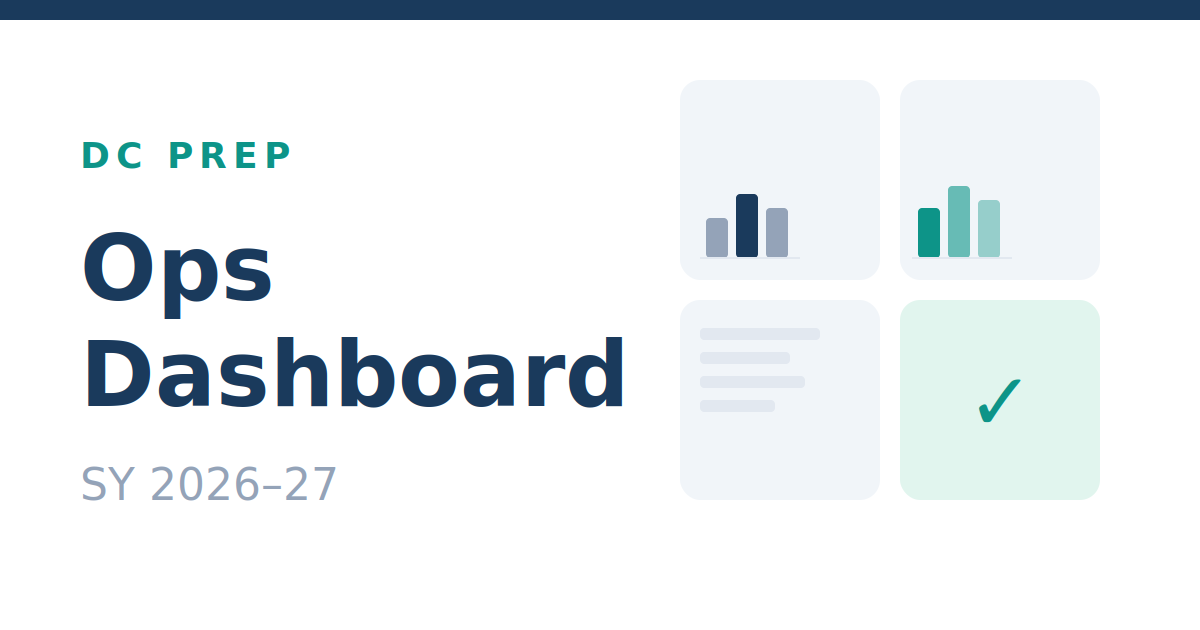
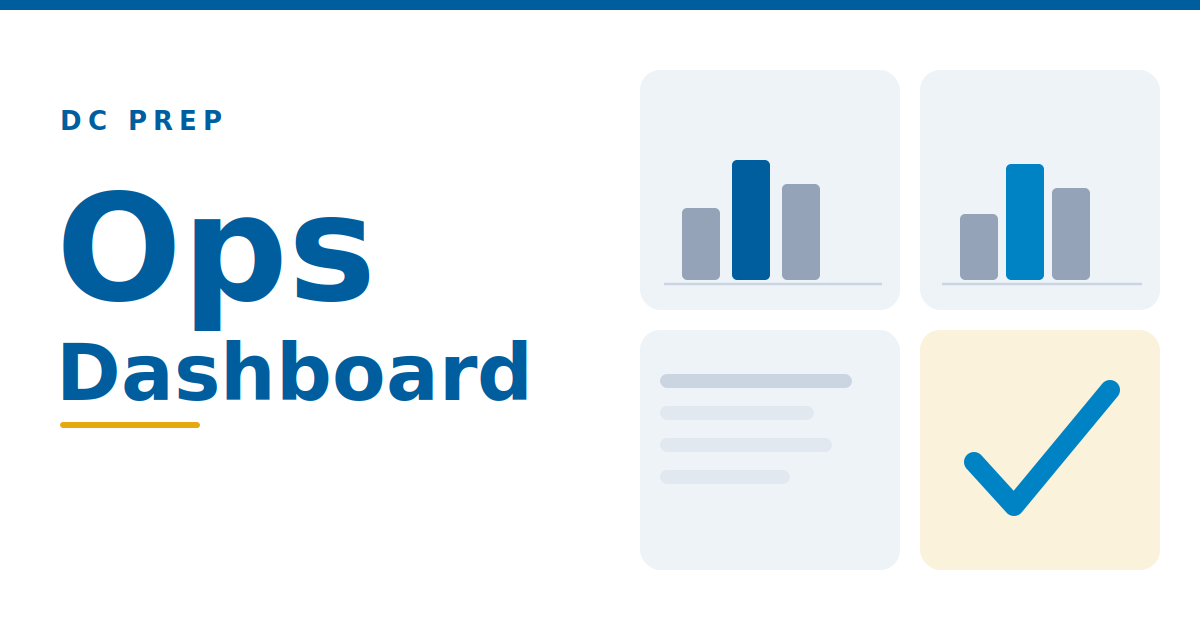
Add files via upload

diff --git a/index.html b/index.html
@@ -16,7 +16,7 @@
 <script src="https://cdnjs.cloudflare.com/ajax/libs/Chart.js/4.4.1/chart.umd.js"></script>
 <style>
 :root {
-  --navy:#1a3a5c;--teal:#0d9488;--teal-lt:#e1f5ee;
+  --navy:#005E9E;--teal:#0083C4;--teal-lt:#E6F3FA;
   --amber:#f59e0b;--red:#dc2626;--red-lt:#fef2f2;
   --muted:#94a3b8;--border:rgba(0,0,0,.09);--card:#fff;
   --bg:#f8fafc;--lt:#f1f5f9;--text:#1e293b;
@@ -25,27 +25,29 @@
 body{font-family:-apple-system,BlinkMacSystemFont,'Segoe UI',system-ui,sans-serif;background:var(--bg);color:var(--text);min-height:100vh}
 
 /* ── HEADER ── */
-.hdr{background:var(--navy);padding:20px 24px 18px;position:sticky;top:0;z-index:100}
+.hdr{background:var(--navy);position:sticky;top:0;z-index:100}
+.hdr-gold-bar{height:5px;background:#E5A810}
+.hdr-inner{padding:16px 24px 16px}
 .hdr-top{display:flex;align-items:center;justify-content:space-between}
 .hdr-brand{font-size:10px;letter-spacing:1.6px;text-transform:uppercase;color:rgba(255,255,255,.4);margin-bottom:3px}
 .hdr-title{font-size:20px;font-weight:700;color:#fff}
 .hdr-meta{font-size:11px;color:rgba(255,255,255,.4);margin-top:3px}
 .back-btn{font-size:13px;color:rgba(255,255,255,.7);background:rgba(255,255,255,.12);border:1px solid rgba(255,255,255,.2);border-radius:8px;padding:6px 12px;cursor:pointer;display:none}
 .back-btn.visible{display:inline-flex;align-items:center;gap:5px}
-.section-title-hdr{font-size:14px;font-weight:600;color:rgba(255,255,255,.6);margin-top:4px;display:none}
+.section-title-hdr{font-size:14px;font-weight:600;color:rgba(255,255,255,.55);margin-top:4px;display:none}
 .section-title-hdr.visible{display:block}
 
 /* ── HOME SCREEN ── */
-.home-screen{max-width:900px;margin:0 auto;padding:28px 24px}
+.home-screen{max-width:900px;margin:0 auto;padding:20px 16px}
 .home-grid{display:grid;grid-template-columns:1fr;gap:10px}@media(min-width:540px){.home-grid{grid-template-columns:1fr 1fr}}
 .home-card{background:var(--card);border:0.5px solid var(--border);border-radius:14px;padding:14px 16px;cursor:pointer;transition:border-color .15s;display:flex;flex-direction:row;align-items:center;gap:12px}
-.home-card:hover{border-color:var(--teal)}
+.home-card:hover{border-color:#E5A810}
 .home-card:active{background:var(--lt)}
 .home-card-icon{width:36px;height:36px;display:flex;align-items:center;justify-content:center;flex-shrink:0}
 .home-card-icon svg{display:block}
 .home-card-name{font-size:15px;font-weight:600;color:var(--navy)}
 .home-card-sub{font-size:12px;color:var(--muted);line-height:1.4;margin-top:2px}
-.home-card-arrow{font-size:18px;color:var(--teal);margin-left:auto;flex-shrink:0}
+.home-card-arrow{font-size:18px;color:#E5A810;margin-left:auto;flex-shrink:0}
 
 /* ── DETAIL SCREEN ── */
 .detail-screen{display:none;max-width:900px;margin:0 auto;padding:24px}
@@ -59,7 +61,7 @@ body{font-family:-apple-system,BlinkMacSystemFont,'Segoe UI',system-ui,sans-seri
 .no-data{font-size:13px;color:var(--muted);font-style:italic;padding:8px 0}
 
 /* ── DRILLS ── */
-.drill-campus-label{font-size:16px;font-weight:700;color:var(--navy);margin-bottom:12px;padding-bottom:10px;border-bottom:1.5px solid var(--border)}
+.drill-campus-label{font-size:17px;font-weight:700;color:var(--navy);margin-bottom:14px;margin-top:24px}
 .drill-type-label{font-size:10px;font-weight:700;letter-spacing:.7px;text-transform:uppercase;color:var(--muted);margin:12px 0 6px}
 .month-row{display:flex;gap:4px;overflow-x:auto;padding-bottom:4px;margin-bottom:4px}
 .month-cell{display:flex;flex-direction:column;align-items:center;gap:3px;flex-shrink:0;min-width:28px}
@@ -89,7 +91,7 @@ body{font-family:-apple-system,BlinkMacSystemFont,'Segoe UI',system-ui,sans-seri
 .flag-name{color:var(--navy);flex:1;padding-right:10px}
 .flag-pct{color:var(--red);font-weight:500}
 .cluster-block{margin-bottom:24px}
-.cluster-label{font-size:16px;font-weight:700;color:var(--navy);margin-bottom:14px;padding-bottom:10px;border-bottom:1.5px solid var(--border)}
+.cluster-label{font-size:17px;font-weight:700;color:var(--navy);margin-bottom:14px;margin-top:24px}
 
 /* ── CUSTODIAL ── */
 .sparkline{display:flex;align-items:flex-end;gap:3px;height:44px;margin:10px 0 2px}
@@ -103,7 +105,7 @@ body{font-family:-apple-system,BlinkMacSystemFont,'Segoe UI',system-ui,sans-seri
 .flag-rate-val{font-size:14px;font-weight:700;color:var(--red)}
 .prior-rate-val{font-size:10px;color:var(--muted);display:block}
 .badge-focus{background:var(--red-lt);color:#991b1b;font-size:10px;font-weight:600;padding:1px 7px;border-radius:10px;margin-left:6px}
-.badge-improving{background:var(--teal-lt);color:#0f6e56;font-size:10px;font-weight:600;padding:1px 7px;border-radius:10px;margin-left:6px}
+.badge-improving{background:var(--teal-lt);color:#005E9E;font-size:10px;font-weight:600;padding:1px 7px;border-radius:10px;margin-left:6px}
 .badge-stable{background:var(--lt);color:var(--muted);font-size:10px;font-weight:600;padding:1px 7px;border-radius:10px;margin-left:6px}
 
 /* ── TRANSPORTATION ── */
@@ -133,7 +135,7 @@ body{font-family:-apple-system,BlinkMacSystemFont,'Segoe UI',system-ui,sans-seri
 .badge{display:inline-block;font-size:11px;padding:2px 8px;border-radius:8px;font-weight:600}
 .badge-warn{background:#fef9c3;color:#92400e}
 .badge-danger{background:var(--red-lt);color:#991b1b}
-.badge-accent{background:var(--teal-lt);color:#085041}
+.badge-accent{background:var(--teal-lt);color:var(--navy)}
 .badge-gray{background:var(--lt);color:var(--muted)}
 </style>
 </head>
@@ -141,15 +143,18 @@ body{font-family:-apple-system,BlinkMacSystemFont,'Segoe UI',system-ui,sans-seri
 
 <!-- ── HEADER ── -->
 <div class="hdr">
-  <div class="hdr-top">
-    <div>
-      <div class="hdr-brand">DC Prep</div>
-      <div class="hdr-title">Ops Dashboard</div>
+  <div class="hdr-gold-bar"></div>
+  <div class="hdr-inner">
+    <div class="hdr-top">
+      <div>
+        <div class="hdr-brand">DC Prep</div>
+        <div class="hdr-title">Ops Dashboard</div>
+      </div>
+      <button class="back-btn" id="back-btn" onclick="goHome()">← Back</button>
     </div>
-    <button class="back-btn" id="back-btn" onclick="goHome()">← Back</button>
+    <div class="section-title-hdr" id="section-title-hdr"></div>
+    <div class="hdr-meta" id="hdr-meta"></div>
   </div>
-  <div class="section-title-hdr" id="section-title-hdr"></div>
-  <div class="hdr-meta" id="hdr-meta"></div>
 </div>
 
 <!-- ── HOME ── -->
@@ -206,7 +211,7 @@ body{font-family:-apple-system,BlinkMacSystemFont,'Segoe UI',system-ui,sans-seri
 
     <div class="home-card" onclick="showSection('transport')">
       <div class="home-card-icon">
-        <svg width="36" height="36" viewBox="0 0 24 24" fill="none" stroke="var(--teal)" stroke-width="1.4" stroke-linecap="round" stroke-linejoin="round">
+        <svg width="36" height="36" viewBox="0 0 24 24" fill="none" stroke="#E5A810" stroke-width="1.4" stroke-linecap="round" stroke-linejoin="round">
           <path d="M4 17a2 2 0 1 0 4 0a2 2 0 1 0-4 0"/>
           <path d="M16 17a2 2 0 1 0 4 0a2 2 0 1 0-4 0"/>
           <path d="M4 17h-2v-11a1 1 0 0 1 1-1h14a5 7 0 0 1 5 7v5h-2m-4 0h-8"/>
@@ -362,7 +367,7 @@ function renderDrills() {
     const comp = (OPS.drills?.compliance || []).find(d => d.campus === campus);
     const last = (OPS.drills?.lastDrills  || []).find(d => d.campus === campus);
 
-    html += `<div style="font-size:18px;font-weight:700;color:var(--navy);margin:20px 0 12px;padding-bottom:10px;border-bottom:1.5px solid var(--border)">${campus}</div>`;
+    html += `<div style="font-size:18px;font-weight:700;color:var(--navy);margin:24px 0 14px">${campus}</div>`;
     html += `<div class="section"><div class="drill-type-label">Evacuation</div>
       <div class="month-row">${dots(comp?.evac)}</div>
       <div class="drill-type-label" style="margin-top:14px">Lockdown</div>
@@ -431,7 +436,7 @@ function renderArrival() {
   const con = document.getElementById('screen-arrival');
   let html = '';
   (OPS.arrival || []).forEach(cl => {
-    html += `<div style="font-size:18px;font-weight:700;color:var(--navy);margin:20px 0 12px;padding-bottom:10px;border-bottom:1.5px solid var(--border)">${cl.cluster}</div>`;
+    html += `<div style="font-size:18px;font-weight:700;color:var(--navy);margin:24px 0 14px">${cl.cluster}</div>`;
     html += `<div class="section">`;
     ['arrival','dismissal'].forEach(session => {
       const sData = cl[session], curr = sData?.current, prior = sData?.prior;
@@ -466,7 +471,7 @@ function renderCustodial() {
     const pct = cl.currentPct, prev = cl.priorPct;
     const cw = cl.window || WIN;
     const pc = pct === null ? 'var(--muted)' : pct >= 80 ? 'var(--teal)' : pct >= 65 ? 'var(--amber)' : 'var(--red)';
-    html += `<div style="font-size:18px;font-weight:700;color:var(--navy);margin:20px 0 12px;padding-bottom:10px;border-bottom:1.5px solid var(--border)">${cl.cluster}</div>`;
+    html += `<div style="font-size:18px;font-weight:700;color:var(--navy);margin:24px 0 14px">${cl.cluster}</div>`;
     html += `<div class="section">`;
     html += `<div class="pct-big" style="color:${pc}">${pct !== null ? pct + '%' : '—'}</div>`;
     html += `<div style="font-size:11px;color:var(--muted);margin-top:4px">${cl.n > 0 ? 'Based on ' + cl.n + ' walkthrough' + (cl.n>1?'s':'') + ' in last ' + cw + ' days' : 'No walkthroughs in this period'}</div>`;
@@ -513,7 +518,7 @@ function renderTransport() {
   let html = '';
   TRANSPORT.routes.forEach(route => {
     // Top metrics
-    html += `<div style="font-size:18px;font-weight:700;color:var(--navy);margin-bottom:14px;padding-bottom:10px;border-bottom:1.5px solid var(--border)">${route.label}</div>`;
+    html += `<div style="font-size:18px;font-weight:700;color:var(--navy);margin-bottom:20px">${route.label}</div>`;
      html += `<div class="section"><div class="metric-table">
          <div class="metric-lbl">Avg ridership</div>
          <div class="metric-lbl">Days logged</div>